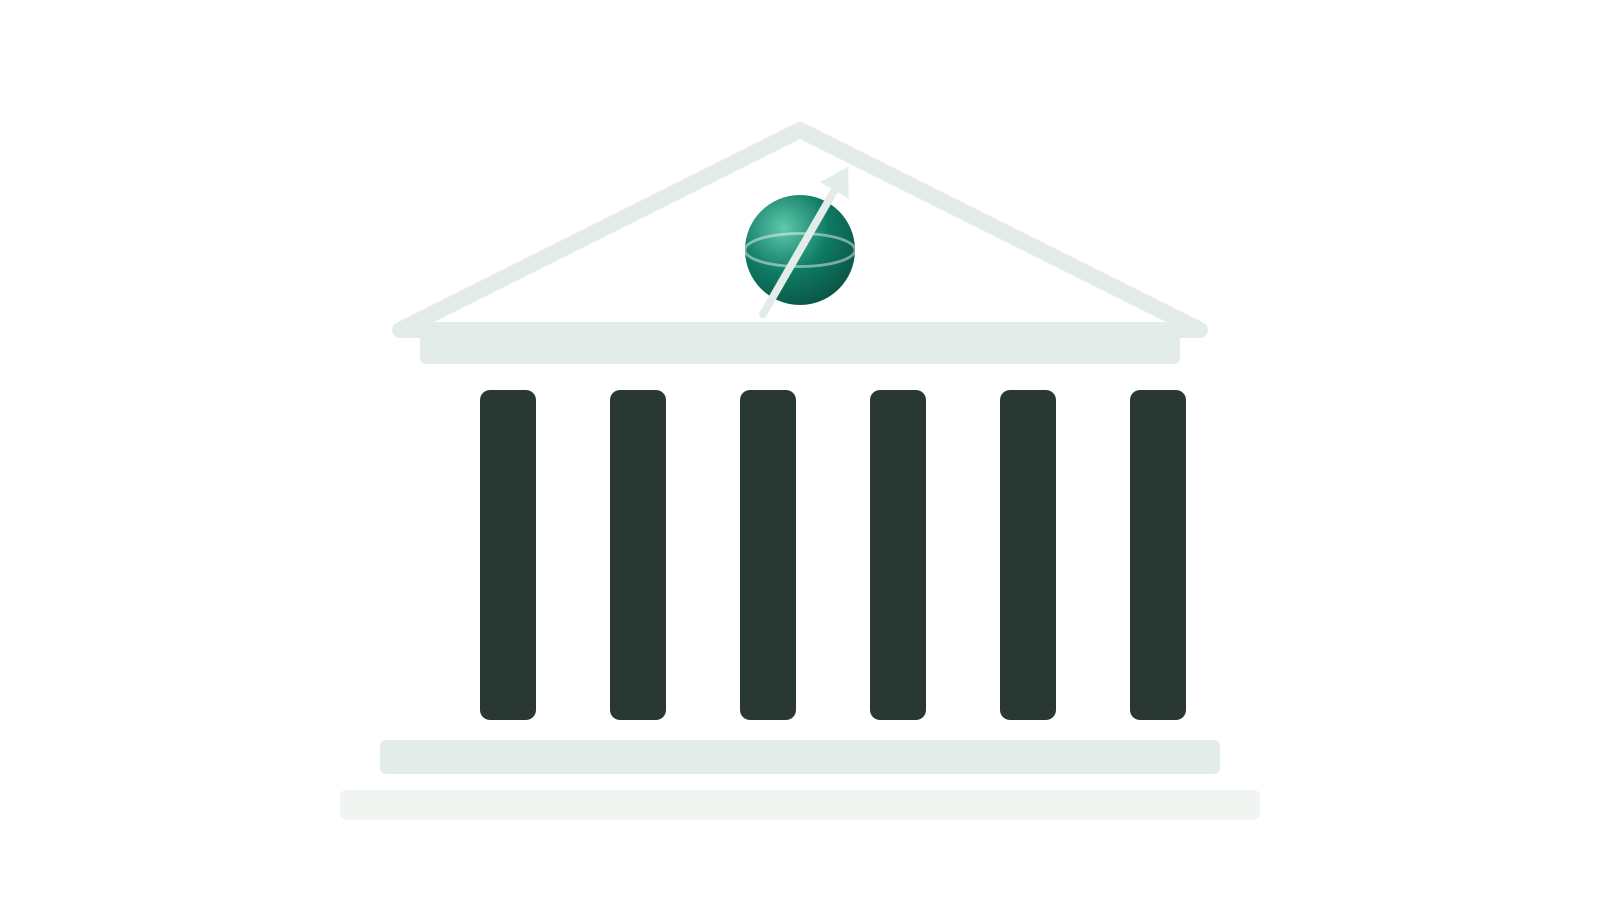
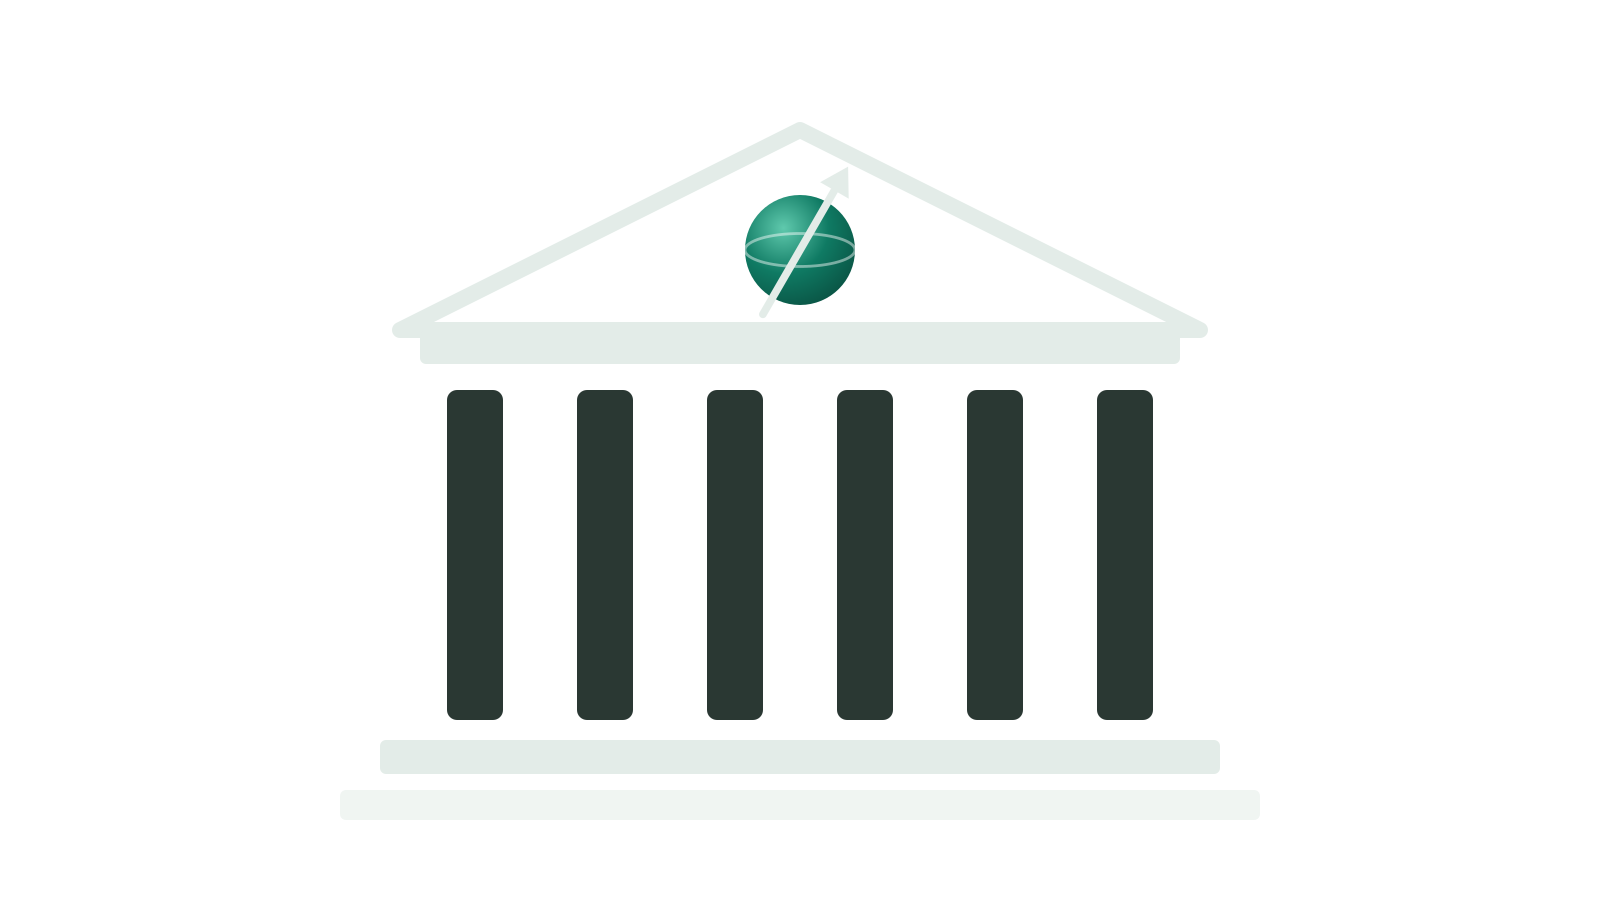
News pictures: pillars and spins centred
Claude-Session: https://claude.ai/code/session_015nMawTpN5M7LMnzggtVfPt

Changed region(s): [[0.2812, 0.4356, 0.75, 0.8089]]

diff --git a/tools/newsart.py b/tools/newsart.py
@@ -62,7 +62,7 @@ def emmy_noether(c):
     """Spin-based Floquet processor: a row of spins riding a periodic drive, precessing in step with it."""
     out = wave(150, 1450, 640, 70, 2.5, c, 12)
     out += wave(150, 1450, 640, 70, 2.5, c, 4, c["soft"], math.pi)
-    for i, x in enumerate((340, 620, 900, 1180)):
+    for i, x in enumerate((380, 660, 940, 1220)):  # centred on x = 800 like the wave
         tilt = 40 * math.sin(2 * math.pi * 2.5 * (x - 150) / 1300)
         out += f'<line x1="{x}" y1="560" x2="{x}" y2="430" stroke="{c["muted"]}" stroke-width="5" stroke-dasharray="4 14" stroke-linecap="round"/>'
         out += spin(x, 330, 95, tilt, c)
@@ -74,8 +74,8 @@ def professor(c):
     ink, soft = c["ink"], c["soft"]
     out = f'<polygon points="400,330 800,130 1200,330" fill="none" stroke="{ink}" stroke-width="16" stroke-linejoin="round"/>'
     out += f'<rect x="420" y="330" width="760" height="34" rx="6" fill="{ink}"/>'
-    for x in range(480, 1160, 130):
-        out += f'<rect x="{x}" y="390" width="56" height="330" rx="10" fill="{soft}"/>'
+    for i in range(6):  # pillars spaced evenly around the centre line x = 800
+        out += f'<rect x="{800 + (i - 2.5) * 130 - 28:.0f}" y="390" width="56" height="330" rx="10" fill="{soft}"/>'
     out += f'<rect x="380" y="740" width="840" height="34" rx="6" fill="{ink}"/>'
     out += f'<rect x="340" y="790" width="920" height="30" rx="6" fill="{ink}" opacity=".55"/>'
     out += spin(800, 250, 55, 30, c)
